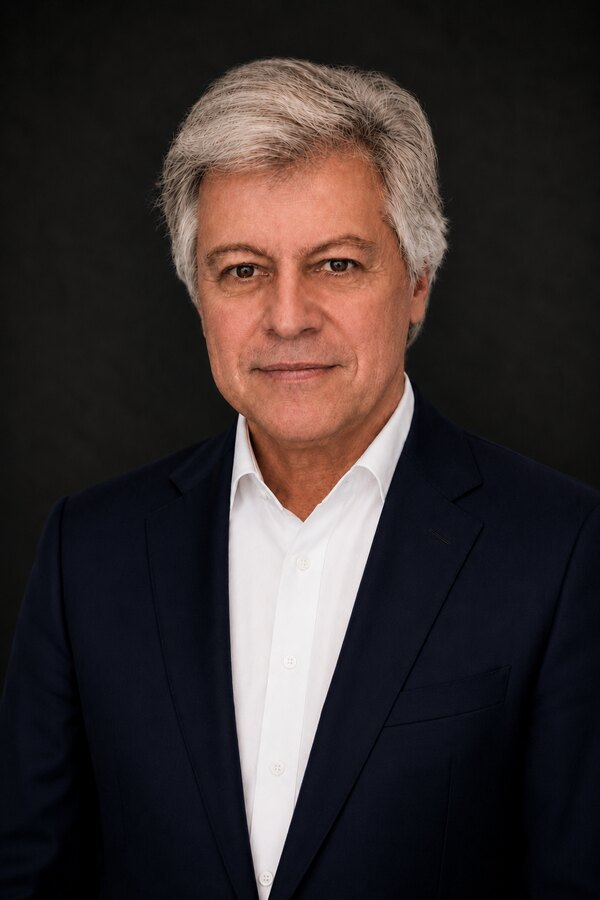
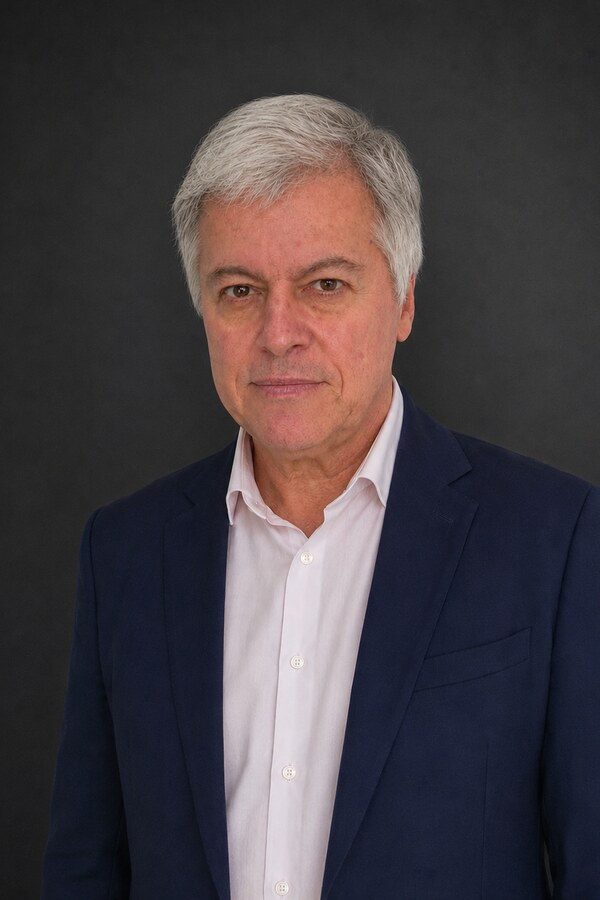
Atualiza Fernando Blanco: foto sem filtros + JHSF Capital na bio
- Substitui foto pela versão sem filtros enviada pelo Fernando
- Inclui JHSF Capital na lista de instituições da bio (PT e EN)

diff --git a/en/index.html b/en/index.html
@@ -443,7 +443,7 @@
         <div class="profile-copy">
           <span class="role-label">Partner &amp; Head of Financial Services</span>
           <h4>Fernando Blanco</h4>
-          <p>He leads the Financial Services practice at Junto Executive Search. With more than 35 years in financial markets, he has held senior management, board, and leadership roles at institutions such as ING Bank, ABN AMRO, Coface, and SBCE.</p>
+          <p>He leads the Financial Services practice at Junto Executive Search. With more than 35 years in financial markets, he has held senior management, board, and leadership roles at institutions such as JHSF Capital, ING Bank, ABN AMRO, Coface, and SBCE.</p>
           <p>His experience expands Junto Executive Search's capability in critical mandates for banks, insurers, fintechs, payment companies, and other financial institutions.</p>
         </div>
       </div>

diff --git a/index.html b/index.html
@@ -476,7 +476,7 @@
         <div class="profile-copy">
           <span class="role-label">Partner &amp; Head of Financial Services</span>
           <h4>Fernando Blanco</h4>
-          <p>Lidera a prática de Financial Services da Junto Executive Search. Com mais de 35 anos de trajetória no mercado financeiro, ocupou posições de alta gestão, conselho e liderança em instituições como ING Bank, ABN AMRO, Coface e SBCE.</p>
+          <p>Lidera a prática de Financial Services da Junto Executive Search. Com mais de 35 anos de trajetória no mercado financeiro, ocupou posições de alta gestão, conselho e liderança em instituições como JHSF Capital, ING Bank, ABN AMRO, Coface e SBCE.</p>
           <p>Sua experiência amplia a capacidade da Junto Executive Search em mandatos críticos para bancos, seguradoras, fintechs, meios de pagamento e demais instituições financeiras.</p>
         </div>
       </div>